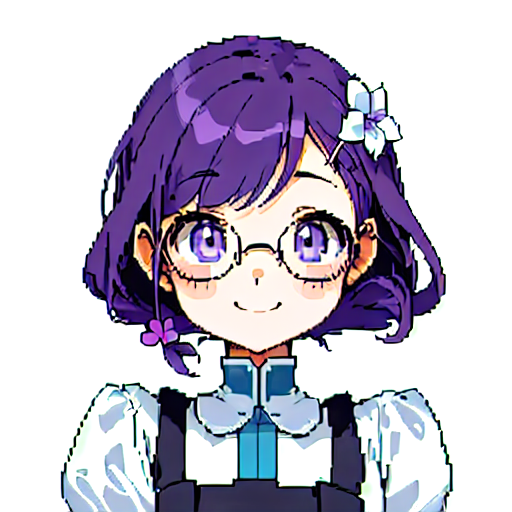
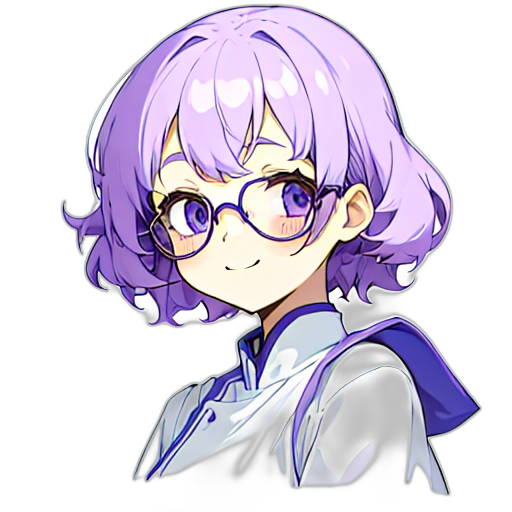
art: Phase 58 Round 2 - portrait 5종 재생성 (lao/andre/arjun/mage/poco)
- 배경 장식 제거: NO_BG_DECO 네거티브 + pure white background 1.5 강화
- mage 스타일 통일: mimi/rin/yuki와 맞춤 재생성
- poco 신규: 고양이 조수 캐릭터 portrait 추가
- andre 남성 강화: masculine face, 1boy:1.5, female 네거티브
- rembg AI 배경 제거 적용 (28~54% 투명화)
- gen_portraits.py: mage/poco 추가, rembg 사용

diff --git a/tools/gen_portraits.py b/tools/gen_portraits.py
@@ -4,13 +4,14 @@ SD Forge Counterfeit V3 / 메이지 스타일 통일
 """
 import requests, json, base64, io, sys
 from PIL import Image
-import numpy as np
 
 SD_API = "http://192.168.219.100:7860/sdapi/v1/txt2img"
 OUT_DIR = "C:/antigravity/kitchen-chaos/assets/portraits"
 
 BASE_POS = "(masterpiece, best quality, official art), cute chibi anime style, bust portrait, white background, simple background, soft anime shading, big round eyes, detailed cute face, clean lineart, 2d illustration, smile"
 BASE_NEG = "nsfw, bad quality, worst quality, low quality, blurry, realistic, 3d, photo, dark background, complex background, full body, chibi body, lowres, bad anatomy, bad hands, multiple views"
+# 배경 장식/색상 방지 강화 네거티브
+NO_BG_DECO = "circular frame, circle background, ornamental background, decorative frame, frame border, badge shape, emblem, halo, pattern background, background illustration, background art, gradient circle, colored background, yellow background, orange background, gradient background, background color, shadow on background, any background except pure white"
 
 CHARACTERS = [
     {
@@ -30,27 +31,36 @@ CHARACTERS = [
     },
     {
         "id": "lao",
-        "prompt": f"{BASE_POS}, 1boy, black hair tied back, orange chinese-style chef jacket, dragon embroidery on collar, calm confident expression, warm orange color scheme",
-        "negative": BASE_NEG,
+        "prompt": f"{BASE_POS}, (pure white background:1.5), 1boy, black hair tied back, orange chinese-style chef jacket, dragon embroidery on collar, calm confident expression, warm orange color scheme",
+        "negative": f"{BASE_NEG}, {NO_BG_DECO}",
     },
     {
         "id": "andre",
-        "prompt": f"{BASE_POS}, 1boy, dark wavy hair, elegant gold and white chef coat, croissant or bread motif, charming smile, European pastry chef, golden color scheme",
-        "negative": BASE_NEG,
+        "prompt": f"{BASE_POS}, (pure white background:1.5), (1boy:1.5), adult male, masculine face, short dark brown wavy hair, elegant gold and white chef coat, charming confident smile, European pastry chef, golden color scheme, male character",
+        "negative": f"{BASE_NEG}, {NO_BG_DECO}, girl, female, woman, feminine, long hair, blonde",
     },
     {
         "id": "arjun",
-        "prompt": f"{BASE_POS}, 1boy, orange turban, short beard, warm dark skin, Indian spice chef, colorful spice motif on outfit, friendly confident smile, orange and saffron color scheme",
-        "negative": BASE_NEG,
+        "prompt": f"{BASE_POS}, (pure white background:1.5), 1boy, orange turban, short beard, warm dark skin, Indian spice chef, friendly confident smile, orange and saffron color scheme",
+        "negative": f"{BASE_NEG}, {NO_BG_DECO}",
+    },
+    {
+        "id": "mage",
+        "prompt": f"{BASE_POS}, (pure white background:1.5), 1girl, short wavy purple hair, round glasses, cute mage chef outfit with star motifs, soft lavender and white color scheme, gentle cheerful smile",
+        "negative": f"{BASE_NEG}, {NO_BG_DECO}",
+    },
+    {
+        "id": "poco",
+        "prompt": f"{BASE_POS}, (pure white background:1.5), cute talking cat mascot character, fluffy grey cat with big expressive eyes, wearing a tiny colorful scarf and small vest, charming mischievous smile, cat ears visible",
+        "negative": f"{BASE_NEG}, {NO_BG_DECO}, human, girl, boy, person",
     },
 ]
 
 def remove_white_bg(img_bytes):
-    img = Image.open(io.BytesIO(img_bytes)).convert("RGBA")
-    arr = np.array(img)
-    mask = (arr[:, :, 0] > 240) & (arr[:, :, 1] > 240) & (arr[:, :, 2] > 240)
-    arr[mask, 3] = 0
-    return Image.fromarray(arr)
+    """rembg AI 배경 제거 사용."""
+    from rembg import remove as rembg_remove
+    result_bytes = rembg_remove(img_bytes)
+    return Image.open(io.BytesIO(result_bytes)).convert("RGBA")
 
 def generate(char):
     print(f"[{char['id']}] 생성 중...", flush=True)
